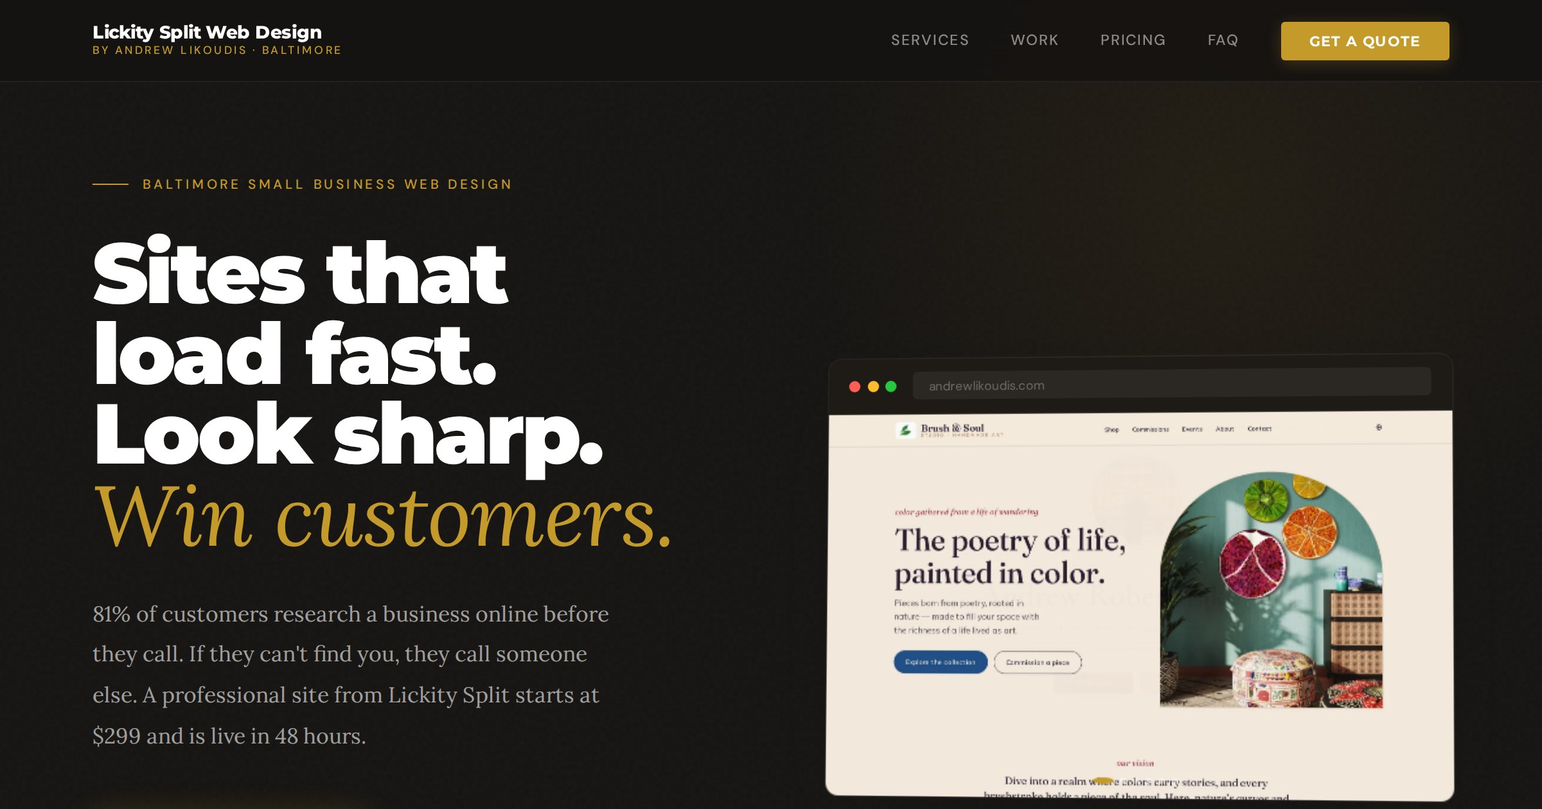
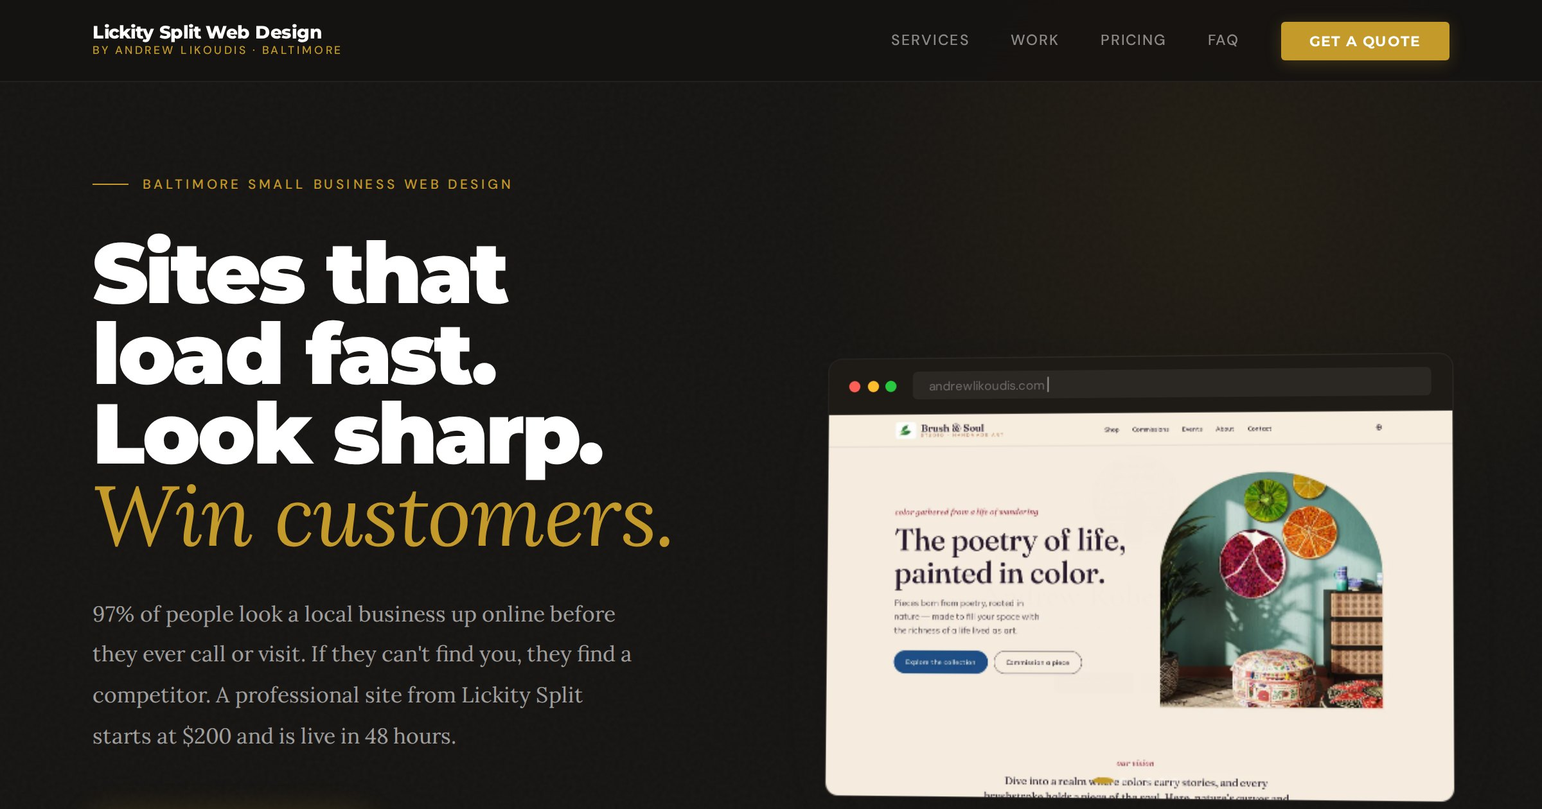
Reprice tiers to real ladder (Starter $200 / Business from $350 / Flagship from $1000); fix & source stat claims; refresh OG screenshot

Changed region(s): [[0.0625, 0.8048, 0.4062, 0.8667], [0.0625, 0.7429, 0.4062, 0.7738], [0.0625, 0.8976, 0.2812, 0.9286]]

diff --git a/index.html b/index.html
@@ -4,13 +4,13 @@
   <meta charset="UTF-8"/>
   <meta name="viewport" content="width=device-width, initial-scale=1.0"/>
   <title>Lickity Split Web Design — Baltimore Small Business Websites</title>
-  <meta name="description" content="Professional small-business websites that load fast and look sharp. Built in Baltimore by Andrew Likoudis. Starter sites from $299, live in 48 hours."/>
+  <meta name="description" content="Professional small-business websites that load fast and look sharp. Built in Baltimore by Andrew Likoudis. Starter sites from $200, live in 48 hours."/>
   <link rel="canonical" href="https://lickitysplit.andrewlikoudis.com/"/>
   <!-- Open Graph (Facebook, LinkedIn, etc.) -->
   <meta property="og:type" content="website"/>
   <meta property="og:url" content="https://lickitysplit.andrewlikoudis.com/"/>
   <meta property="og:title" content="Lickity Split Web Design — Baltimore Small Business Websites"/>
-  <meta property="og:description" content="Sites that load fast, look sharp, and win customers. Professional small-business websites built in Baltimore — from $299, live in 48 hours."/>
+  <meta property="og:description" content="Sites that load fast, look sharp, and win customers. Professional small-business websites built in Baltimore — from $200, live in 48 hours."/>
   <meta property="og:image" content="https://lickitysplit.andrewlikoudis.com/og.jpg"/>
   <meta property="og:image:width" content="2400"/>
   <meta property="og:image:height" content="1260"/>
@@ -19,7 +19,7 @@
   <!-- Twitter / X -->
   <meta name="twitter:card" content="summary_large_image"/>
   <meta name="twitter:title" content="Lickity Split Web Design — Baltimore Small Business Websites"/>
-  <meta name="twitter:description" content="Sites that load fast, look sharp, and win customers. From $299, live in 48 hours."/>
+  <meta name="twitter:description" content="Sites that load fast, look sharp, and win customers. From $200, live in 48 hours."/>
   <meta name="twitter:image" content="https://lickitysplit.andrewlikoudis.com/og.jpg"/>
   <link href="https://fonts.googleapis.com/css2?family=Montserrat:wght@600;700;800;900&family=Lora:ital,wght@0,400;0,500;1,400;1,500&family=DM+Sans:wght@300;400;500&display=swap" rel="stylesheet"/>
   <style>
@@ -579,7 +579,7 @@
       <span class="hero-kicker-text">Baltimore Small Business Web Design</span>
     </div>
     <h1>Sites that load fast.<br>Look sharp.<br><span class="serif-line">Win customers.</span></h1>
-    <p class="hero-body">81% of customers research a business online before they call. If they can't find you, they call someone else. A professional site from Lickity Split starts at $299 and is live in 48 hours.</p>
+    <p class="hero-body">97% of people look a local business up online before they ever call or visit. If they can't find you, they find a competitor. A professional site from Lickity Split starts at $200 and is live in 48 hours.</p>
     <div class="hero-actions">
       <a href="#contact" class="btn-accent">Get a Free Quote</a>
       <a href="#work" class="btn-ghost-light">See Live Work</a>
@@ -642,7 +642,7 @@
     <div class="perf-item">
       <div class="perf-score-row"><span class="perf-score accent" data-count="0">0</span><span class="perf-unit">kb avg</span></div>
       <div class="perf-label">Page Weight</div>
-      <div class="perf-source">vs. 2.1MB WordPress avg</div>
+      <div class="perf-source">vs. ~2.9MB WordPress avg</div>
     </div>
   </div>
 </div>
@@ -658,7 +658,7 @@
 <section class="for-section" id="services">
   <div class="eyebrow">Who This Is For</div>
   <h2>Right now, someone is Googling<br><span class="serif">your business and finding a competitor.</span></h2>
-  <p class="section-body">31% of customers skip a business entirely if it has no website. Another 20–35% hear about you through word of mouth, search your name to verify — and never call, because they found nothing. That's invisible revenue loss. Here's the fix.</p>
+  <p class="section-body">Nearly 1 in 3 people won't consider a business that has no website. And when someone hears about you, then Googles your name to check you out, finding nothing sends them straight to whoever does show up. That's invisible revenue loss. Here's the fix.</p>
   <div class="for-grid">
     <div class="for-card"><div class="for-title">Restaurants &amp; Cafés</div><div class="for-desc">Menu, hours, Maps, reservations, bilingual support.</div></div>
     <div class="for-card"><div class="for-title">Contractors &amp; Trades</div><div class="for-desc">Work gallery, lead form, license display, service area.</div></div>
@@ -675,10 +675,10 @@
 <!-- STATS COUNTER -->
 <section class="stats-section">
   <div class="stats-grid">
-    <div class="stat-item"><div class="stat-num"><span data-counter="100">0</span><span style="color:var(--accent)">/100</span></div><div class="stat-label">PageSpeed Score</div><div class="stat-desc">Sites that load in 1 second convert 3× better than sites that take 5. Every build ships at 100.</div></div>
+    <div class="stat-item"><div class="stat-num"><span data-counter="100">0</span><span style="color:var(--accent)">/100</span></div><div class="stat-label">PageSpeed Score</div><div class="stat-desc">Sites that load in 1 second convert up to 3× better than sites that take 5 (Portent study). Every build ships at 100.</div></div>
     <div class="stat-item"><div class="stat-num"><span data-counter="48">0</span><span style="color:var(--accent)">hr</span></div><div class="stat-label">Starter Delivery</div><div class="stat-desc">From assets received to live URL. Timed. Guaranteed.</div></div>
     <div class="stat-item"><div class="stat-num"><span style="color:var(--accent)">~$</span><span data-counter="12">0</span><span style="font-size:1.4rem;color:rgba(255,255,255,.4)">/yr</span></div><div class="stat-label">Total Annual Cost</div><div class="stat-desc">Domain name only (~$12/yr). Hosting on GitHub Pages is free. No platform fees ever.</div></div>
-    <div class="stat-item"><div class="stat-num"><span data-counter="70">0</span><span style="color:var(--accent)">%+</span></div><div class="stat-label">Report More Revenue</div><div class="stat-desc">Over 70% of small businesses report increased revenue within months of launching a professional site.</div></div>
+    <div class="stat-item"><div class="stat-num"><span data-counter="75">0</span><span style="color:var(--accent)">%</span></div><div class="stat-label">Judge You by Design</div><div class="stat-desc">75% of people judge a business's credibility on its website design alone (Stanford Web Credibility Research). A sharp, fast site earns trust before you say a word.</div></div>
   </div>
 </section>
 
@@ -851,61 +851,62 @@
     <div>
       <div class="eyebrow">Transparent Pricing</div>
       <h2>More site,<br><span class="serif">better rate.</span></h2>
-      <p class="section-body" style="margin-bottom:0">A $299 Starter site pays for itself fast. A plumber charges $300 a job — one call and it's covered. A restaurant that lands one new regular who visits twice a month recoups the cost in days. After that, the site works for free, every day, forever.</p>
+      <p class="section-body" style="margin-bottom:0">A $200 Starter site pays for itself fast. A plumber charges $300 a job — one call covers it. A restaurant that lands one new regular who visits twice a month recoups the cost in days. After that, the site works for free, every day, forever.</p>
     </div>
-    <div class="agency-note"><strong>The agency alternative</strong>Baltimore agencies charge $4,000–$10,000 for a Full Build, plus ~$1,200/year in maintenance fees. Then they're gone and you're paying someone new every time a button breaks. My Full Build is $999. One price. You own it. I'm still here.</div>
+    <div class="agency-note"><strong>The agency alternative</strong>Baltimore agencies charge $4,000–$10,000 for a comparable build, plus ~$1,200/year in maintenance fees. Then they're gone and you're paying someone new every time a button breaks. My biggest builds top out around $1,000. One price. You own it. I'm still here.</div>
   </div>
   <div class="pricing-grid" id="pricing-grid">
     <div class="pricing-card" data-reveal>
       <div class="p-tier">Starter</div>
-      <div class="p-price">$299</div>
-      <div class="p-cadence">48-hr turnaround · $299/page</div>
+      <div class="p-price">$200</div>
+      <div class="p-cadence">48-hr turnaround · single-page or compact site</div>
       <hr class="p-divider"/>
       <ul class="p-features">
-        <li class="p-feature">One-page responsive site</li>
-        <li class="p-feature">Services, hours &amp; location</li>
-        <li class="p-feature">Google Maps embed</li>
-        <li class="p-feature">Contact form</li>
-        <li class="p-feature">Mobile-first design</li>
-        <li class="p-feature">Social media links</li>
-        <li class="p-feature">Basic SEO setup</li>
+        <li class="p-feature">Polished one-page or compact site</li>
+        <li class="p-feature">Hand-coded, sub-1s load — no plugins</li>
+        <li class="p-feature">Mobile-first responsive design</li>
+        <li class="p-feature">Contact form + click-to-call</li>
+        <li class="p-feature">Google Maps, hours &amp; location</li>
+        <li class="p-feature">Social links + SEO basics</li>
+        <li class="p-feature">You own the files outright</li>
       </ul>
       <a href="#contact" class="p-cta">Get Started</a>
     </div>
     <div class="pricing-card growth" data-reveal>
       <div class="p-badge badge-pop">Most Popular</div>
-      <div class="p-tier">Growth</div>
-      <div class="p-price">$599</div>
-      <div class="p-was">$897 at Starter rate</div>
-      <div class="p-save">Save $298 — $200/page</div>
-      <div class="p-cadence">5-day turnaround</div>
+      <div class="p-tier">Business</div>
+      <div class="p-price">from $350</div>
+      <div class="p-save">most builds $350–$600 · priced by scope</div>
+      <div class="p-cadence">~1 week turnaround</div>
       <hr class="p-divider"/>
       <ul class="p-features">
-        <li class="p-feature">Three pages: Home, Services, Contact</li>
-        <li class="p-feature">Photo or portfolio gallery</li>
-        <li class="p-feature">SEO optimization</li>
-        <li class="p-feature">Google Maps + directions</li>
-        <li class="p-feature">Social media integration</li>
-        <li class="p-feature">Contact form + hours display</li>
+        <li class="p-feature">Everything in Starter, plus:</li>
+        <li class="p-feature">Multi-page site or full single-page system</li>
+        <li class="p-feature">Menu, catalog, or portfolio gallery</li>
+        <li class="p-feature">Online ordering / booking links</li>
+        <li class="p-feature">Shopify storefront setup (e-commerce)</li>
+        <li class="p-feature">Bilingual (EN/ES) option</li>
+        <li class="p-feature">Newsletter signup + inquiry forms</li>
+        <li class="p-feature">Full SEO + social share previews</li>
         <li class="p-feature">One revision round included</li>
       </ul>
       <a href="#contact" class="p-cta">Get Started</a>
     </div>
     <div class="pricing-card" data-reveal>
       <div class="p-badge badge-val">Best Value</div>
-      <div class="p-tier">Full Build</div>
-      <div class="p-price">$999</div>
-      <div class="p-was">$2,093 at Starter rate</div>
-      <div class="p-save">Save $1,094 — $143/page</div>
-      <div class="p-cadence">2-week turnaround</div>
+      <div class="p-tier">Flagship</div>
+      <div class="p-price">from $1,000</div>
+      <div class="p-was">vs. $4,000–$10,000 at an agency</div>
+      <div class="p-save">large multi-page platform</div>
+      <div class="p-cadence">~2-week turnaround</div>
       <hr class="p-divider"/>
       <ul class="p-features">
-        <li class="p-feature">Full multi-page site (7+ pages)</li>
-        <li class="p-feature">Booking or order integration</li>
-        <li class="p-feature">Full photo or portfolio gallery</li>
-        <li class="p-feature">Bilingual support (EN/ES)</li>
-        <li class="p-feature">Google Analytics setup</li>
-        <li class="p-feature">Advanced SEO optimization</li>
+        <li class="p-feature">Everything in Business, plus:</li>
+        <li class="p-feature">Large multi-page site (8–16+ pages)</li>
+        <li class="p-feature">E-commerce or donation / patron system</li>
+        <li class="p-feature">Photo galleries + PDF / document downloads</li>
+        <li class="p-feature">Custom interactive elements</li>
+        <li class="p-feature">Google Analytics + advanced SEO</li>
         <li class="p-feature">Two revision rounds included</li>
         <li class="p-feature">30-day post-launch support</li>
       </ul>
@@ -961,7 +962,7 @@
           </div>
           <div class="manifesto-item">
             <div class="manifesto-icon"><svg viewBox="0 0 24 24"><circle cx="12" cy="12" r="10"/><path d="M12 8v4l3 3"/></svg></div>
-            <div><div class="manifesto-item-title">~$12/Year. That's It.</div><div class="manifesto-item-body">Hosting on GitHub Pages is free. Your only ongoing cost is a domain name — about $12/year on Namecheap. Full Build clients get the first year included. Wix runs $204/year and you never own the code.</div></div>
+            <div><div class="manifesto-item-title">~$12/Year. That's It.</div><div class="manifesto-item-body">Hosting on GitHub Pages is free. Your only ongoing cost is a domain name — about $12/year on Namecheap. Flagship clients get the first year included. Wix runs $204/year and you never own the code.</div></div>
           </div>
           <div class="manifesto-item">
             <div class="manifesto-icon"><svg viewBox="0 0 24 24"><path d="M12 20h9"/><path d="M16.5 3.5a2.121 2.121 0 013 3L7 19l-4 1 1-4L16.5 3.5z"/></svg></div>
@@ -994,8 +995,8 @@
       <p class="section-body">Tell me your business name and what you do. I'll respond within 24 hours with a specific recommendation and a flat price. No sales call required. No obligation. If you don't move forward, you paid nothing and learned something.</p>
       <div class="contact-reasons">
         <div class="contact-reason"><div class="cr-icon"><svg viewBox="0 0 24 24"><path d="M13 10V3L4 14h7v7l9-11h-7z"/></svg></div><div><div class="cr-title">Live in 48 hours, not 6 weeks</div><div class="cr-body">The average agency takes 4–8 weeks to launch a site. Starter sites from Lickity Split go live in 48 hours. Every day without a website is a day customers are finding someone else.</div></div></div>
-        <div class="contact-reason"><div class="cr-icon"><svg viewBox="0 0 24 24"><path d="M12 22s8-4 8-10V5l-8-3-8 3v7c0 6 8 10 8 10z"/></svg></div><div><div class="cr-title">One price. You know it upfront.</div><div class="cr-body">You know the exact cost before a single line is written. No discovery fees, no hourly billing, no "scope changes." $299, $599, or $999 — that's the number, that's the invoice.</div></div></div>
-        <div class="contact-reason"><div class="cr-icon"><svg viewBox="0 0 24 24"><path d="M17 21v-2a4 4 0 00-4-4H5a4 4 0 00-4 4v2"/><circle cx="9" cy="7" r="4"/><path d="M23 21v-2a4 4 0 00-3-3.87M16 3.13a4 4 0 010 7.75"/></svg></div><div><div class="cr-title">88% of local searches end in a store visit</div><div class="cr-body">88% of people who search for a local business on their phone visit within 24 hours. A site that shows up in search doesn't just build brand awareness — it drives people through your door the same day.</div></div></div>
+        <div class="contact-reason"><div class="cr-icon"><svg viewBox="0 0 24 24"><path d="M12 22s8-4 8-10V5l-8-3-8 3v7c0 6 8 10 8 10z"/></svg></div><div><div class="cr-title">One price. You know it upfront.</div><div class="cr-body">You know the exact cost before a single line is written. No discovery fees, no hourly billing, no "scope changes." Starter, Business, or Flagship — that's your number, that's the invoice.</div></div></div>
+        <div class="contact-reason"><div class="cr-icon"><svg viewBox="0 0 24 24"><path d="M17 21v-2a4 4 0 00-4-4H5a4 4 0 00-4 4v2"/><circle cx="9" cy="7" r="4"/><path d="M23 21v-2a4 4 0 00-3-3.87M16 3.13a4 4 0 010 7.75"/></svg></div><div><div class="cr-title">76% of local searches end in a visit within a day</div><div class="cr-body">76% of people who search for a nearby business on their phone visit one within 24 hours (Google). A site that shows up in search doesn't just build brand awareness — it drives people through your door the same day.</div></div></div>
       </div>
     </div>
     <div class="lead-form-wrap" id="form-wrap">
@@ -1011,7 +1012,7 @@
         <div class="form-row"><label for="bizname">Business Name</label><input type="text" id="bizname" placeholder="Maria's Salon" required/></div>
         <div class="form-2">
           <div><label for="biztype">Business Type</label><select id="biztype" required><option value="" disabled selected>Select...</option><option>Restaurant / Cafe</option><option>Barbershop / Salon</option><option>Contractor / Trade</option><option>Nonprofit / Ministry</option><option>Retail / Boutique</option><option>Professional Services</option><option>Medical / Wellness</option><option>Creative / Artist</option><option>Other</option></select></div>
-          <div><label for="budget">Budget Range</label><select id="budget"><option value="" disabled selected>Select...</option><option>$299 — Starter</option><option>$599 — Growth</option><option>$999 — Full Build</option><option>$50/mo — Care Plan</option><option>Not sure yet</option></select></div>
+          <div><label for="budget">Budget Range</label><select id="budget"><option value="" disabled selected>Select...</option><option>$200 — Starter</option><option>from $350 — Business</option><option>from $1,000 — Flagship</option><option>$50/mo — Care Plan</option><option>Not sure yet</option></select></div>
         </div>
         <div class="form-row"><label for="currenturl">Current Website URL (if any)</label><input type="url" id="currenturl" placeholder="https://mysite.com or leave blank"/></div>
         <div class="form-row"><label for="message">Anything else?</label><textarea id="message" placeholder="Tell me about your business and what you need..."></textarea></div>
@@ -1057,7 +1058,7 @@
     <div class="step"><div class="step-num">01</div><div class="step-icon"><svg viewBox="0 0 24 24"><path d="M21 15a2 2 0 01-2 2H7l-4 4V5a2 2 0 012-2h14a2 2 0 012 2z"/></svg></div><div class="step-title">Free Quote</div><div class="step-desc">Fill out the form or email me. I'll respond within 24 hours with a clear recommendation and flat price.</div></div>
     <div class="step"><div class="step-num">02</div><div class="step-icon"><svg viewBox="0 0 24 24"><path d="M21.44 11.05l-9.19 9.19a6 6 0 01-8.49-8.49l9.19-9.19a4 4 0 015.66 5.66l-9.2 9.19a2 2 0 01-2.83-2.83l8.49-8.48"/></svg></div><div class="step-title">You Send the Assets</div><div class="step-desc">Photos, logo, services, hours. That's it. I handle design, copy, code, and hosting setup.</div></div>
     <div class="step"><div class="step-num">03</div><div class="step-icon"><svg viewBox="0 0 24 24"><rect x="2" y="3" width="20" height="14" rx="2"/><path d="M8 21h8M12 17v4"/></svg></div><div class="step-title">Preview &amp; Revisions</div><div class="step-desc">I send a live preview link. You give feedback. We get it exactly right before anything goes public.</div></div>
-    <div class="step"><div class="step-num">04</div><div class="step-icon"><svg viewBox="0 0 24 24"><path d="M22 11.08V12a10 10 0 11-5.93-9.14"/><polyline points="22 4 12 14.01 9 11.01"/></svg></div><div class="step-title">Launch</div><div class="step-desc">Your site goes live. Full Build clients get 30 days of post-launch support included.</div></div>
+    <div class="step"><div class="step-num">04</div><div class="step-icon"><svg viewBox="0 0 24 24"><path d="M22 11.08V12a10 10 0 11-5.93-9.14"/><polyline points="22 4 12 14.01 9 11.01"/></svg></div><div class="step-title">Launch</div><div class="step-desc">Your site goes live. Flagship clients get 30 days of post-launch support included.</div></div>
   </div>
 </section>
 
@@ -1084,7 +1085,7 @@
           <span class="faq-q-text">How is the 48-hour delivery actually possible?</span>
           <span class="faq-icon"><svg viewBox="0 0 24 24"><line x1="12" y1="5" x2="12" y2="19"/><line x1="5" y1="12" x2="19" y2="12"/></svg></span>
         </button>
-        <div class="faq-a"><div class="faq-a-inner">The Starter site is a single page — no database, no CMS, no build pipeline. Once you send me your photos, logo, and content, I write the HTML and CSS by hand, push it to GitHub, and it's live. <strong>The bottleneck is usually waiting for assets, not building.</strong> If you send me everything at once, 48 hours is conservative. Multi-page Growth and Full Builds take 5 days and 2 weeks respectively because more pages mean more decisions.</div></div>
+        <div class="faq-a"><div class="faq-a-inner">The Starter site is a single page — no database, no CMS, no build pipeline. Once you send me your photos, logo, and content, I write the HTML and CSS by hand, push it to GitHub, and it's live. <strong>The bottleneck is usually waiting for assets, not building.</strong> If you send me everything at once, 48 hours is conservative. Multi-page Business and Flagship builds take about a week and two weeks respectively because more pages mean more decisions.</div></div>
       </div>
 
       <div class="faq-item">
@@ -1092,7 +1093,7 @@
           <span class="faq-q-text">What are the ongoing hosting costs?</span>
           <span class="faq-icon"><svg viewBox="0 0 24 24"><line x1="12" y1="5" x2="12" y2="19"/><line x1="5" y1="12" x2="19" y2="12"/></svg></span>
         </button>
-        <div class="faq-a"><div class="faq-a-inner"><strong>About $12/year.</strong> That's it. Hosting is on GitHub Pages — genuinely free, no catch. The only cost is your domain name, about $12–15/year through Namecheap. <strong>Full Build clients get the first year's domain included in the price.</strong> Compare that to Wix at $204/year, Squarespace at $192/year, or WordPress hosting at $100+/year — and those platforms charge you forever while you never own the code.</div></div>
+        <div class="faq-a"><div class="faq-a-inner"><strong>About $12/year.</strong> That's it. Hosting is on GitHub Pages — genuinely free, no catch. The only cost is your domain name, about $12–15/year through Namecheap. <strong>Flagship clients get the first year's domain included in the price.</strong> Compare that to Wix at $204/year, Squarespace at $192/year, or WordPress hosting at $100+/year — and those platforms charge you forever while you never own the code.</div></div>
       </div>
 
       <div class="faq-item">
@@ -1116,7 +1117,7 @@
           <span class="faq-q-text">Why not just use Wix or Squarespace?</span>
           <span class="faq-icon"><svg viewBox="0 0 24 24"><line x1="12" y1="5" x2="12" y2="19"/><line x1="5" y1="12" x2="19" y2="12"/></svg></span>
         </button>
-        <div class="faq-a"><div class="faq-a-inner">You can. Wix runs ~$17/month ($204/year), scores 40–60 on PageSpeed, and you never own the code. <strong>A hand-coded site costs $299 once, scores 100/100 on PageSpeed, and loads in under a second.</strong> After year one, you're ahead financially. After year two, the gap is enormous. And you'll never be held hostage by a platform changing its pricing or shutting down.</div></div>
+        <div class="faq-a"><div class="faq-a-inner">You can. Wix runs ~$17/month ($204/year), scores 40–60 on PageSpeed, and you never own the code. <strong>A hand-coded Starter costs $200 once, scores 100/100 on PageSpeed, and loads in under a second.</strong> After year one, you're ahead financially. After year two, the gap is enormous. And you'll never be held hostage by a platform changing its pricing or shutting down.</div></div>
       </div>
 
       <div class="faq-item">
@@ -1132,7 +1133,7 @@
           <span class="faq-q-text">What do I need to provide to get started?</span>
           <span class="faq-icon"><svg viewBox="0 0 24 24"><line x1="12" y1="5" x2="12" y2="19"/><line x1="5" y1="12" x2="19" y2="12"/></svg></span>
         </button>
-        <div class="faq-a"><div class="faq-a-inner">For a Starter: your logo (or I'll create a simple wordmark), 3–5 photos, your services list, hours, address, and phone number. That's it. <strong>I write the copy, handle the design, and deploy the site.</strong> For Growth and Full Builds, we do a brief call first so I understand your customers and what action you want them to take. The whole intake process takes under 30 minutes.</div></div>
+        <div class="faq-a"><div class="faq-a-inner">For a Starter: your logo (or I'll create a simple wordmark), 3–5 photos, your services list, hours, address, and phone number. That's it. <strong>I write the copy, handle the design, and deploy the site.</strong> For Business and Flagship builds, we do a brief call first so I understand your customers and what action you want them to take. The whole intake process takes under 30 minutes.</div></div>
       </div>
 
     </div>
@@ -1167,7 +1168,7 @@
 <!-- CTA FINAL -->
 <section class="cta-final">
   <h2>Your competitors have websites.<br><span class="serif">Now you can too.</span></h2>
-  <p class="section-body" style="margin-bottom:2.5rem">A $299 site. 48 hours. One flat price. If it doesn't bring in a single new customer in the first 30 days, email me and I'll tell you exactly why — free. That's how confident I am this works.</p>
+  <p class="section-body" style="margin-bottom:2.5rem">A $200 site. 48 hours. One flat price. If it doesn't bring in a single new customer in the first 30 days, email me and I'll tell you exactly why — free. That's how confident I am this works.</p>
   <a href="#contact" class="btn-accent">Get a Free Quote</a>
   <div class="cta-final-note">Or email: andrewlikoudis@gmail.com</div>
 </section>
